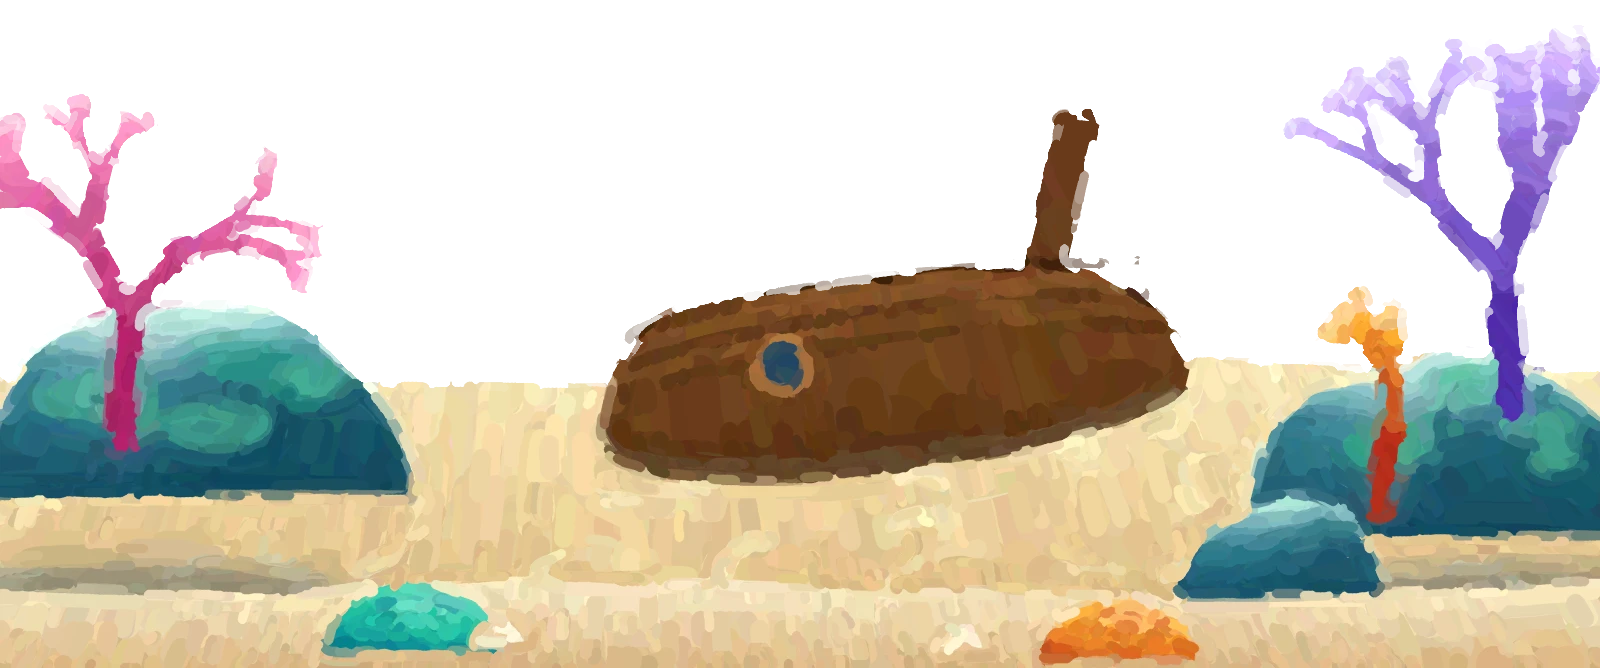
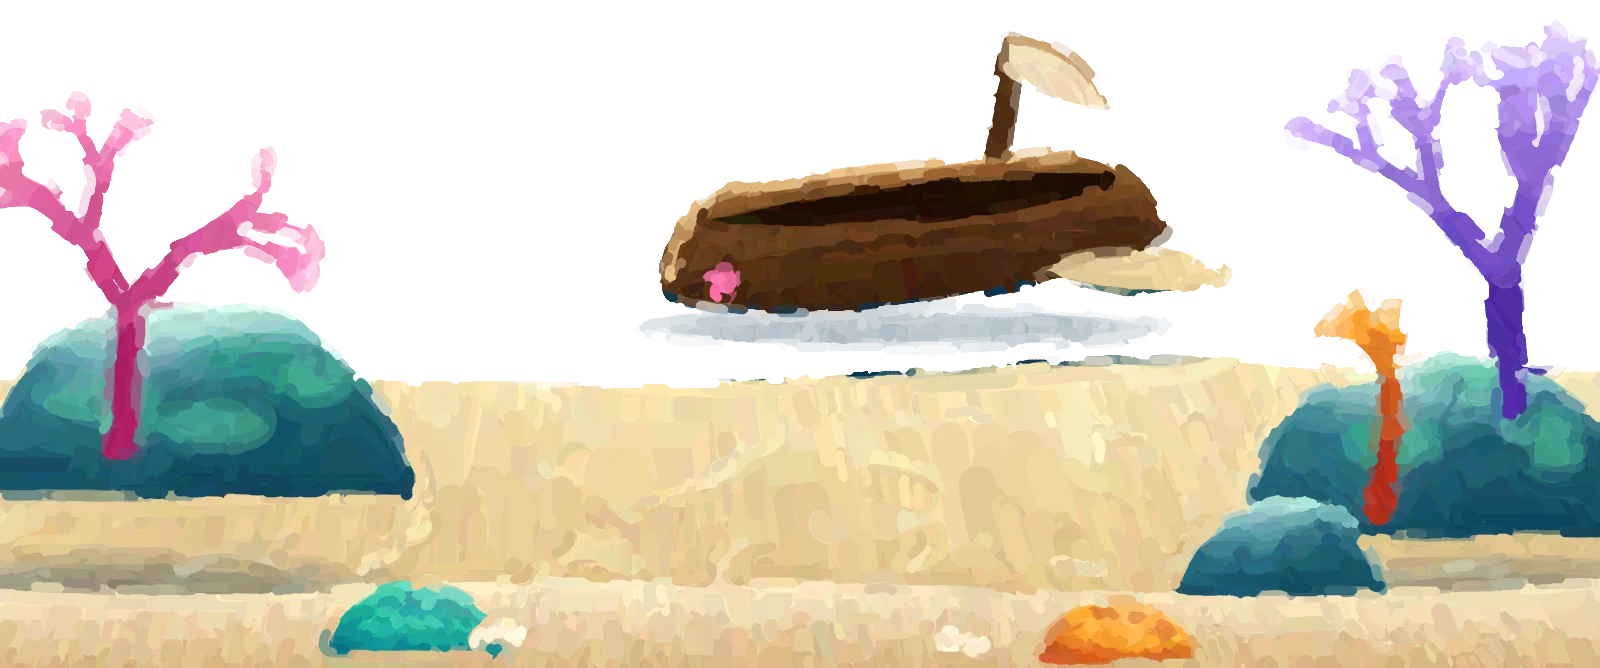
The hunt's wreck reads as a boat now
Redrawn silhouette-first so it survives the brush pass and the mounds in
front of it: dark hull with an open interior, sunlit gunwale rim, plank
lines, a tilted mast with a tattered sail catching the light, a cast
shadow pool beneath and sand drifted over the stern. Same crop, no
layout changes.

diff --git a/art-pipeline/scenes_v2.py b/art-pipeline/scenes_v2.py
@@ -321,16 +321,26 @@ def scene_hunt_layers():
     # shadow pools sink the corners around the bright clearing
     s.add('<ellipse cx="60" cy="600" rx="190" ry="54" fill="#0d3350" opacity=".36" filter="url(#b6)"/>'
           '<ellipse cx="750" cy="602" rx="190" ry="54" fill="#0d3350" opacity=".36" filter="url(#b6)"/>')
-    # The wreck: an old rowboat, resting at a tilt in the sand
-    hull = s.lin([(0, '#8a5c34', 1), (1, '#573418', 1)])
-    planks = ''.join(f'<path d="M{308+i*4} {466-i*15} C370 {450-i*15} 530 {450-i*15} {588-i*3} {464-i*15}" fill="none" stroke="#3f2410" stroke-width="3" opacity=".5"/>' for i in (1, 2, 3))
-    s.add(f'<g transform="rotate(-7 420 470)">'
-          f'<path d="M300 470 C310 430 330 414 352 410 L520 410 C560 416 588 438 596 470 C560 500 340 504 300 470 Z" fill="{hull}"/>'
-          f'{planks}'
-          f'<path d="M300 470 C340 504 560 500 596 470 L592 482 C540 510 350 514 306 482 Z" fill="#3f2410" opacity=".8"/>'
-          f'<circle cx="394" cy="446" r="13" fill="#2b4a5e" stroke="#a87648" stroke-width="5"/>'
-          f'<path d="M520 410 L548 338 L566 342 L540 412 Z" fill="#6a4426"/>'
+    # The wreck: a sunken rowboat up on the back slope, drawn silhouette-first
+    # so it reads over the mounds - dark hull, sunlit gunwale, a tilted mast
+    # with a tattered sail catching the light
+    s.add('<ellipse cx="452" cy="430" rx="150" ry="15" fill="#123a52" opacity=".4" filter="url(#b6)"/>')
+    hull = s.lin([(0, '#9a6a3c', 1), (.4, '#6a4426', 1), (1, '#38200e', 1)])
+    s.add(f'<g transform="rotate(-6 450 396)">'
+          f'<path d="M330 400 C332 376 346 358 370 352 L540 352 C564 356 580 372 584 398 '
+          f'C544 424 372 426 330 400 Z" fill="{hull}"/>'
+          f'<path d="M352 366 C400 356 500 356 560 366 C544 380 380 382 352 366 Z" fill="#1e0f06"/>'
+          f'<path d="M340 392 C400 384 500 384 576 390 M342 404 C404 398 498 398 572 402" '
+          f'fill="none" stroke="#2e1a0c" stroke-width="3" opacity=".55"/>'
+          f'<path d="M334 394 C340 370 352 356 372 352 L540 352" fill="none" '
+          f'stroke="#e8c28e" stroke-width="5" opacity=".9" stroke-linecap="round"/>'
+          f'<path d="M496 352 L514 288 L524 290 L508 354 Z" fill="#54341a"/>'
+          f'<path d="M514 290 C540 296 556 310 560 330 C542 326 524 318 512 306 Z" fill="#f3e3c2"/>'
+          f'<path d="M514 290 C540 296 556 310 560 330" fill="none" stroke="#c9a878" stroke-width="2.5"/>'
           f'</g>')
+    s.add(seastar(362, 408, 8, '#ff7eb6', -75))
+    # sand drifted over the stern: the sea is slowly keeping it
+    s.add('<path d="M520 400 C560 386 596 390 616 406 C584 416 540 416 520 400 Z" fill="#edd8a8" opacity=".9"/>')
     s.add(boulder(s, 96, 500, 220, 86) + boulder(s, 724, 520, 200, 80) + boulder(s, 640, 556, 100, 42, moss=False))
     s.add(coral(r, 60, 486, '#b03070', '#ff9ecb', 150, 4, 14, -86) + coral(r, 756, 470, '#5a3aa8', '#d2b4ff', 160, 4, 15, -94) + coral(r, 688, 520, '#b23a2a', '#ffb347', 100, 3, 12, -80))
     sand(s, r, 560, 6, SAND2, caustic=False)
